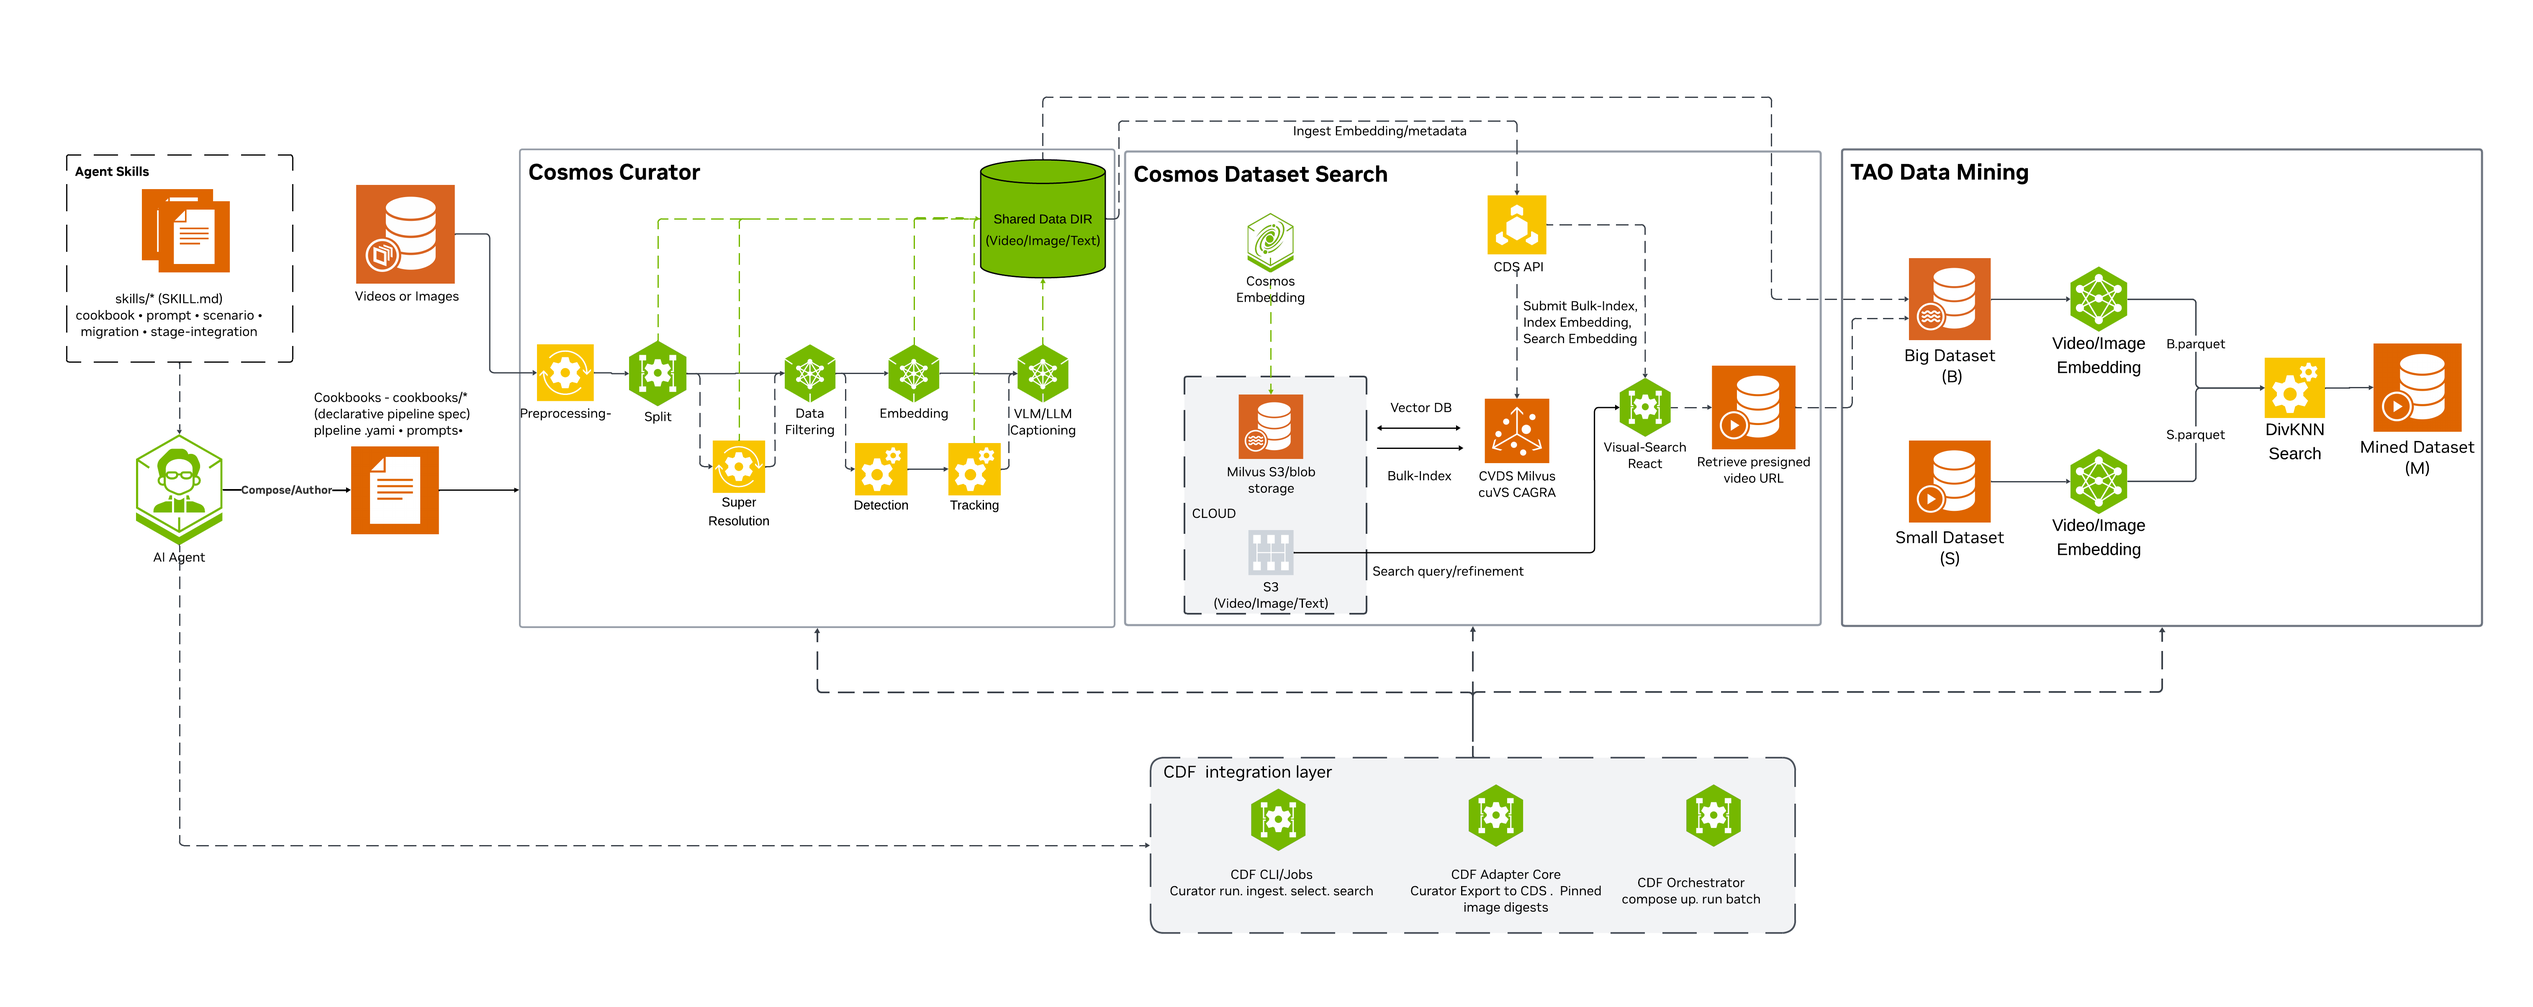
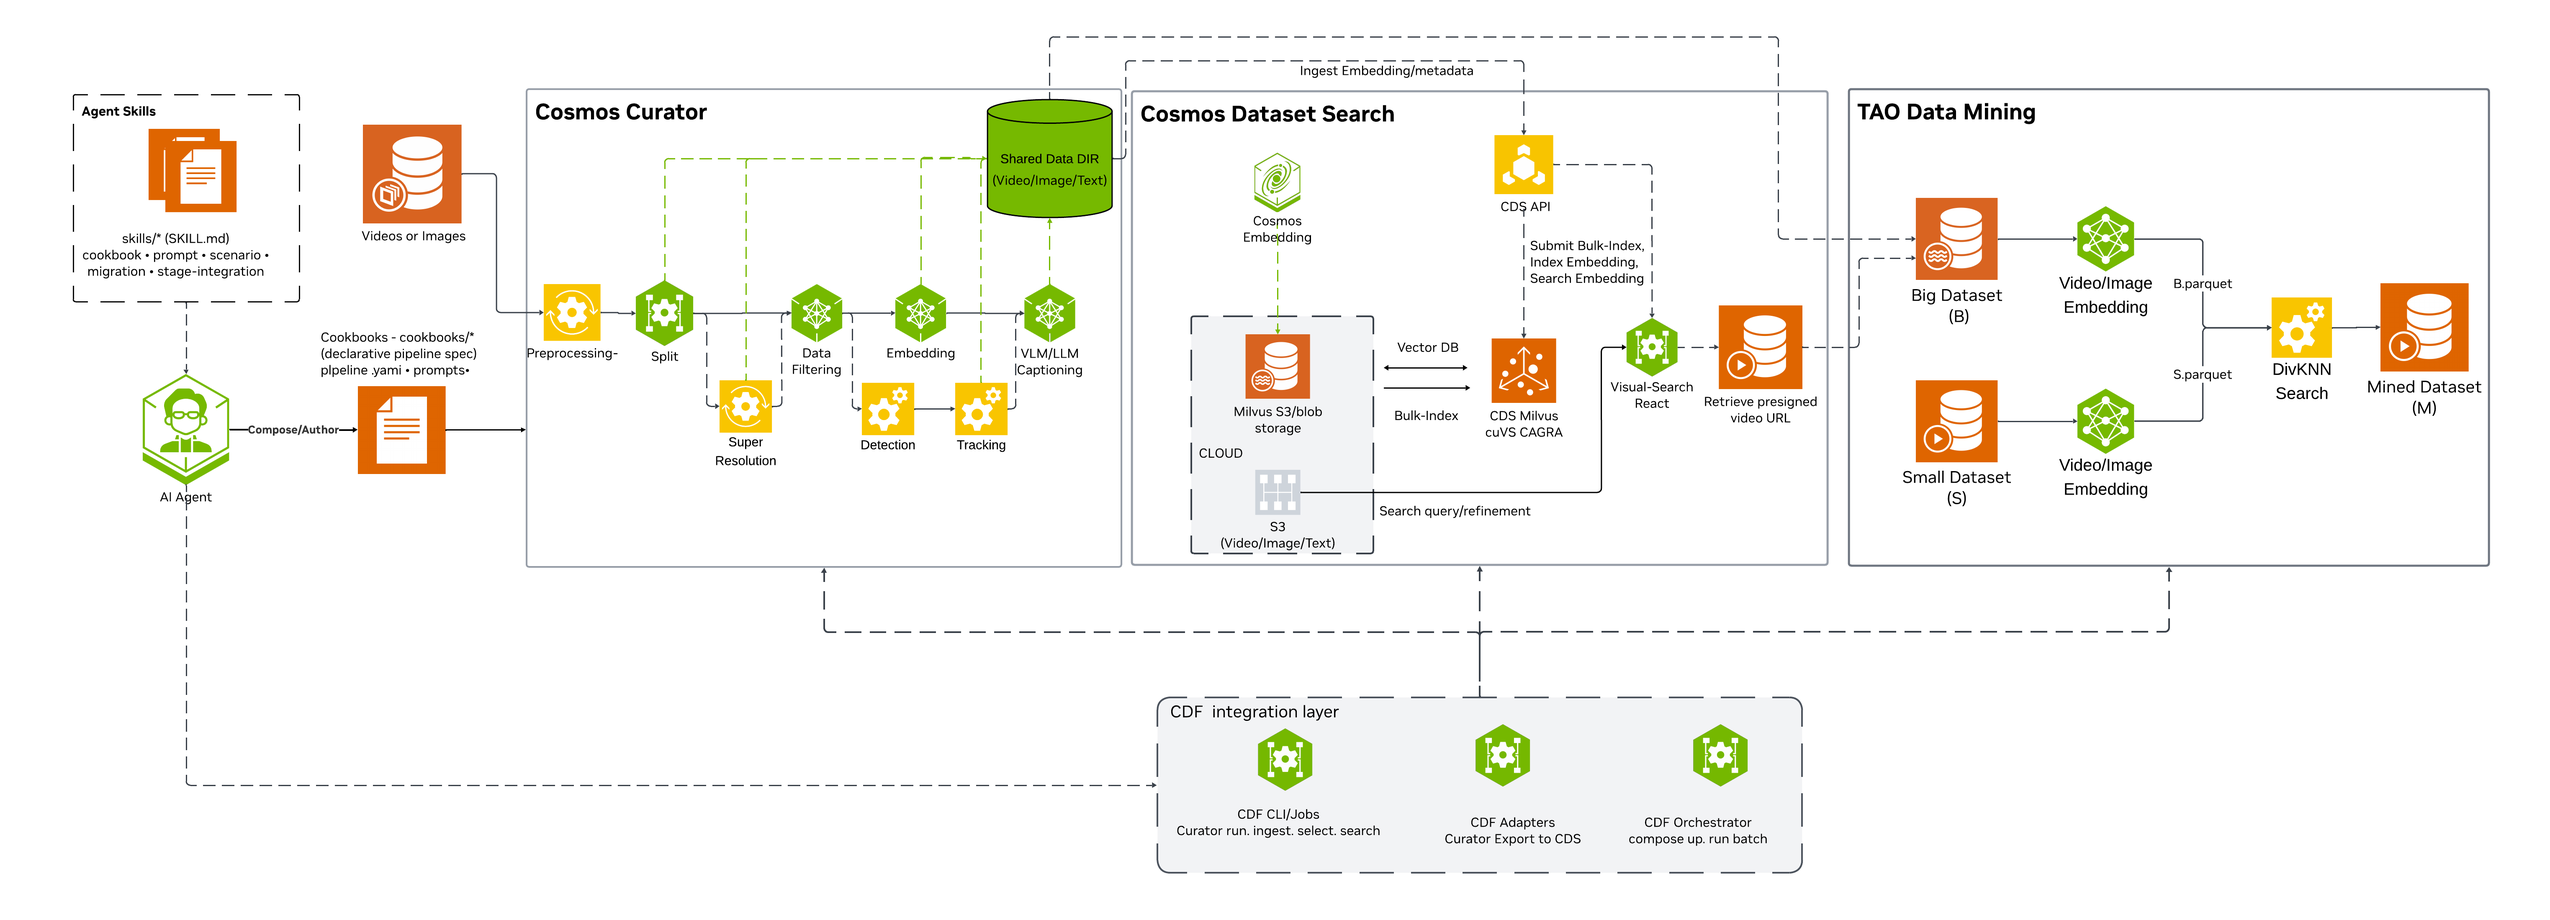
Clarify skill gates, deduplicate CDS ingest, and refresh the skill signature
State the config preflight as mandatory and the workplace legal-review gate as
explicit branches, keep one copy of the CDS bulk-ingest sequence, update the
architecture diagram labels, and refresh the skill benchmark, card, and
signature.

diff --git a/skills/cdf-curation-and-retrieval/BENCHMARK.md b/skills/cdf-curation-and-retrieval/BENCHMARK.md
@@ -13,7 +13,7 @@ Recommended for publication based on the completed evaluation evidence in this r
 - Evaluator version: `1.5.6`
 - Agents: Claude Code (`aws/anthropic/bedrock-claude-opus-4-8`), Codex (`openai/openai/gpt-5.5`)
 - Tasks: 13 evaluation tasks (13 positive)
-- Dataset digest: `sha256:7cb5ca235cc988433ce2a110f837664c9aaacd412e9b5fb8589ce89b4a6d7499` (skill-evaluator-dataset-snapshot/1)
+- Dataset digest: `sha256:68c9c65d696cee768d1ab51c11a9e58f26d2fa9369aed6853ef5a7d51c69abe8` (skill-evaluator-dataset-snapshot/1)
 - Attempts per task: 1
 - Environment: `k8s-sandbox`
 - Tier 2 evidence: required for publication
@@ -35,12 +35,12 @@ The three-tier evaluation checks whether the skill:
 
 | Measure | Claude Code (Baseline → Skill Uplift) | Codex (Baseline → Skill Uplift) |
 |---|---:|---:|
-| Overall | 93.1% — baseline ran, but no comparable score was available; uplift unavailable | 87.0% — baseline ran, but no comparable score was available; uplift unavailable |
-| Security | 92.3% → 100.0% (+7.7 points) | 100.0% → 100.0% (±0.0 points) |
-| Correctness | 43.1% → 100.0% (+56.9 points) | 49.2% → 90.8% (+41.6 points) |
-| Discoverability | 83.5% — baseline ran, but no comparable score was available; uplift unavailable | 70.8% — baseline ran, but no comparable score was available; uplift unavailable |
-| Effectiveness | 45.7% → 93.1% (+47.4 points) | 39.5% → 78.7% (+39.2 points) |
-| Efficiency | 88.9% — baseline ran, but no comparable score was available; uplift unavailable | 94.8% — baseline ran, but no comparable score was available; uplift unavailable |
+| Overall | 92.1% — baseline ran, but no comparable score was available; uplift unavailable | 85.4% — baseline ran, but no comparable score was available; uplift unavailable |
+| Security | 84.6% → 100.0% (+15.4 points) | 100.0% → 96.2% (-3.8 points) |
+| Correctness | 43.1% → 100.0% (+56.9 points) | 52.3% → 92.3% (+40.0 points) |
+| Discoverability | 86.2% — baseline ran, but no comparable score was available; uplift unavailable | 66.5% — baseline ran, but no comparable score was available; uplift unavailable |
+| Effectiveness | 45.1% → 89.0% (+43.9 points) | 41.2% → 75.5% (+34.3 points) |
+| Efficiency | 85.1% — baseline ran, but no comparable score was available; uplift unavailable | 96.3% — baseline ran, but no comparable score was available; uplift unavailable |
 
 **How to read this table:** baseline is the same task attempted without the target skill. Scores are rounded to one decimal; threshold-adjacent values use additional precision so their displayed band matches the verdict. Uplift is derived from those displayed scores and shown in percentage points.
 
@@ -54,35 +54,35 @@ Actual Tier 3 execution usage is reported for every observed agent/case pair and
 
 | Agent | Dataset case | With skill | Without skill | Delta | Change | Coverage |
 |---|---|---:|---:|---:|---:|---|
-| claude-code | All cases | 3,123,932 | 3,148,128 | -24,196 | -0.77% | skill 13/13; base 13/13 |
-| claude-code | 1 | 117,960 | 124,734 | -6,774 | -5.43% | skill 1/1; base 1/1 |
-| claude-code | 11 | 109,724 | 184,920 | -75,196 | -40.66% | skill 1/1; base 1/1 |
-| claude-code | 12 | 30,521 | 30,146 | +375 | +1.24% | skill 1/1; base 1/1 |
-| claude-code | 13 | 31,345 | 30,705 | +640 | +2.08% | skill 1/1; base 1/1 |
-| claude-code | 14 | 246,444 | 179,919 | +66,525 | +36.97% | skill 1/1; base 1/1 |
-| claude-code | 15 | 291,946 | 149,225 | +142,721 | +95.64% | skill 1/1; base 1/1 |
-| claude-code | 16 | 225,161 | 526,825 | -301,664 | -57.26% | skill 1/1; base 1/1 |
-| claude-code | 2 | 300,500 | 184,367 | +116,133 | +62.99% | skill 1/1; base 1/1 |
-| claude-code | 3 | 1,168,078 | 576,597 | +591,481 | +102.58% | skill 1/1; base 1/1 |
-| claude-code | 4 | 111,781 | 219,807 | -108,026 | -49.15% | skill 1/1; base 1/1 |
-| claude-code | 5 | 106,650 | 562,737 | -456,087 | -81.05% | skill 1/1; base 1/1 |
-| claude-code | 6 | 270,052 | 217,805 | +52,247 | +23.99% | skill 1/1; base 1/1 |
-| claude-code | 9 | 113,770 | 160,341 | -46,571 | -29.04% | skill 1/1; base 1/1 |
-| codex | All cases | 1,432,390 | 1,096,865 | +335,525 | +30.59% | skill 13/13; base 13/13 |
-| codex | 1 | 89,825 | 66,604 | +23,221 | +34.86% | skill 1/1; base 1/1 |
-| codex | 11 | 89,936 | 113,100 | -23,164 | -20.48% | skill 1/1; base 1/1 |
-| codex | 12 | 13,695 | 13,545 | +150 | +1.11% | skill 1/1; base 1/1 |
-| codex | 13 | 112,888 | 13,976 | +98,912 | +707.73% | skill 1/1; base 1/1 |
-| codex | 14 | 14,432 | 14,504 | -72 | -0.50% | skill 1/1; base 1/1 |
-| codex | 15 | 72,453 | 69,638 | +2,815 | +4.04% | skill 1/1; base 1/1 |
-| codex | 16 | 174,597 | 148,945 | +25,652 | +17.22% | skill 1/1; base 1/1 |
-| codex | 2 | 110,978 | 129,878 | -18,900 | -14.55% | skill 1/1; base 1/1 |
-| codex | 3 | 307,677 | 226,659 | +81,018 | +35.74% | skill 1/1; base 1/1 |
-| codex | 4 | 97,493 | 69,491 | +28,002 | +40.30% | skill 1/1; base 1/1 |
-| codex | 5 | 93,007 | 69,324 | +23,683 | +34.16% | skill 1/1; base 1/1 |
-| codex | 6 | 143,900 | 42,220 | +101,680 | +240.83% | skill 1/1; base 1/1 |
-| codex | 9 | 111,509 | 118,981 | -7,472 | -6.28% | skill 1/1; base 1/1 |
-| ALL AGENTS | Dataset aggregate | 4,556,322 | 4,244,993 | +311,329 | +7.33% | skill 26/26; base 26/26 |
+| claude-code | All cases | 2,845,953 | 2,903,814 | -57,861 | -1.99% | skill 13/13; base 13/13 |
+| claude-code | 1 | 117,484 | 281,990 | -164,506 | -58.34% | skill 1/1; base 1/1 |
+| claude-code | 11 | 109,584 | 122,056 | -12,472 | -10.22% | skill 1/1; base 1/1 |
+| claude-code | 12 | 30,544 | 30,280 | +264 | +0.87% | skill 1/1; base 1/1 |
+| claude-code | 13 | 61,860 | 30,689 | +31,171 | +101.57% | skill 1/1; base 1/1 |
+| claude-code | 14 | 246,336 | 150,240 | +96,096 | +63.96% | skill 1/1; base 1/1 |
+| claude-code | 15 | 291,458 | 211,382 | +80,076 | +37.88% | skill 1/1; base 1/1 |
+| claude-code | 16 | 160,435 | 122,511 | +37,924 | +30.96% | skill 1/1; base 1/1 |
+| claude-code | 2 | 250,343 | 180,841 | +69,502 | +38.43% | skill 1/1; base 1/1 |
+| claude-code | 3 | 960,007 | 632,407 | +327,600 | +51.80% | skill 1/1; base 1/1 |
+| claude-code | 4 | 116,918 | 313,950 | -197,032 | -62.76% | skill 1/1; base 1/1 |
+| claude-code | 5 | 189,807 | 547,212 | -357,405 | -65.31% | skill 1/1; base 1/1 |
+| claude-code | 6 | 197,169 | 123,313 | +73,856 | +59.89% | skill 1/1; base 1/1 |
+| claude-code | 9 | 114,008 | 156,943 | -42,935 | -27.36% | skill 1/1; base 1/1 |
+| codex | All cases | 1,527,696 | 1,377,724 | +149,972 | +10.89% | skill 13/13; base 13/13 |
+| codex | 1 | 92,466 | 38,997 | +53,469 | +137.11% | skill 1/1; base 1/1 |
+| codex | 11 | 193,496 | 99,109 | +94,387 | +95.24% | skill 1/1; base 1/1 |
+| codex | 12 | 13,711 | 13,626 | +85 | +0.62% | skill 1/1; base 1/1 |
+| codex | 13 | 14,355 | 118,752 | -104,397 | -87.91% | skill 1/1; base 1/1 |
+| codex | 14 | 14,488 | 23,993 | -9,505 | -39.62% | skill 1/1; base 1/1 |
+| codex | 15 | 88,433 | 84,294 | +4,139 | +4.91% | skill 1/1; base 1/1 |
+| codex | 16 | 223,428 | 116,397 | +107,031 | +91.95% | skill 1/1; base 1/1 |
+| codex | 2 | 90,154 | 100,075 | -9,921 | -9.91% | skill 1/1; base 1/1 |
+| codex | 3 | 440,834 | 285,710 | +155,124 | +54.29% | skill 1/1; base 1/1 |
+| codex | 4 | 72,470 | 69,683 | +2,787 | +4.00% | skill 1/1; base 1/1 |
+| codex | 5 | 119,008 | 254,483 | -135,475 | -53.24% | skill 1/1; base 1/1 |
+| codex | 6 | 91,202 | 70,588 | +20,614 | +29.20% | skill 1/1; base 1/1 |
+| codex | 9 | 73,651 | 102,017 | -28,366 | -27.81% | skill 1/1; base 1/1 |
+| ALL AGENTS | Dataset aggregate | 4,373,649 | 4,281,538 | +92,111 | +2.15% | skill 26/26; base 26/26 |
 
 Prompt tokens include cached reads, so total tokens are `prompt + completion` (cached is not added twice). The Efficiency score uses `(prompt - cached) + completion`. N/A means the relevant trajectory counters were not available; coverage is never estimated.
 
@@ -90,8 +90,8 @@ Prompt tokens include cached reads, so total tokens are `prompt + completion` (c
 
 | Tier | Purpose | Status | Evidence |
 |---|---|---|---|
-| Tier 1 | Static validation | **PASSED WITH OBSERVATIONS** | 11 validator(s); 10 finding(s) |
-| Tier 2 | Semantic deduplication | **PASSED WITH OBSERVATIONS** | 2 validator(s); 1 finding(s) |
+| Tier 1 | Static validation | **PASSED WITH OBSERVATIONS** | 11 validator(s); 8 finding(s) |
+| Tier 2 | Semantic deduplication | **PASSED** | 2 validator(s); 0 finding(s) |
 | Tier 3 | Live agent evaluation | **PASS** | 2 agent(s); 13 task(s) |
 
 ## Findings and Observations
@@ -99,14 +99,12 @@ Prompt tokens include cached reads, so total tokens are `prompt + completion` (c
 <details>
 <summary>Show detailed findings and successful checks</summary>
 
-- **HIGH** DUPLICATE/duplicate: Duplicate content found across references/cosmos-dataset-search.md and references/curation-retrieval-workflow.md:
-  "## Public GA bulk-ingest workflow" in references/cosmos-dataset-search.md (lines 98-131)
-  vs "### 2. Send CE1 to CDS" in references/curation-retrieval-workflow.md (lines 30-63) (`references/cosmos-dataset-search.md:98`)
 - **MEDIUM** QUALITY/quality_efficiency: Deeply nested references in calibration-config.md (`skills/cdf-curation-and-retrieval/SKILL.md`)
-- **MEDIUM** SECURITY/Skill Enumeration (AS3): Agent Snooping: skills/cdf-curation-and-retrieval/SKILL.md (`BENCHMARK.md:102`)
-- **MEDIUM** SECURITY/Skill Enumeration (AS3): Agent Snooping: skills/cdf-curation-and-retrieval/SKILL.md (`BENCHMARK.md:103`)
-- **MEDIUM** SECURITY/Skill Enumeration (AS3): Agent Snooping: skills/cdf-curation-and-retrieval/SKILL.md (`BENCHMARK.md:104`)
-- 6 additional finding(s) are available in the full evaluation artifacts.
+- **MEDIUM** SECURITY/Skill Enumeration (AS3): Agent Snooping: skills/cdf-curation-and-retrieval/SKILL.md (`BENCHMARK.md:105`)
+- **MEDIUM** SECURITY/Skill Enumeration (AS3): Agent Snooping: skills/cdf-curation-and-retrieval/SKILL.md (`BENCHMARK.md:106`)
+- **MEDIUM** SECURITY/Skill Enumeration (AS3): Agent Snooping: skills/cdf-curation-and-retrieval/SKILL.md (`BENCHMARK.md:107`)
+- **MEDIUM** SECURITY/Skill Enumeration (AS3): Agent Snooping: skills/cdf-curation-and-retrieval/SKILL.md (`BENCHMARK.md:108`)
+- 3 additional finding(s) are available in the full evaluation artifacts.
 
 </details>
 

diff --git a/skills/cdf-curation-and-retrieval/SKILL.md b/skills/cdf-curation-and-retrieval/SKILL.md
@@ -144,11 +144,17 @@ that one of the following is true:
 If none of these holds, or required paths, intent, or hardware constraints
 remain unresolved, stop and report the unresolved requirements as `blocked`.
 
-Workplace safety and employee conduct monitoring are privacy-sensitive. If the
-user names either domain, or a catalog match selects
-`employee_conduct_monitoring.yaml`, the user must confirm legal review, a
-lawful basis, and any required worker notice before the agent writes a config.
-Without that confirmation, return `blocked`.
+Workplace legal-review gate. Workplace safety and employee conduct monitoring
+are privacy-sensitive. The gate applies when the user names either domain or a
+catalog match selects `employee_conduct_monitoring.yaml`:
+
+- If the gate does not apply → continue with the route below.
+- If it applies and the user confirms legal review, a lawful basis, and any
+  required worker notice → emit the reviewed configuration and its
+  calibration disclosure.
+- If it applies and any of those confirmations is absent → do not write a
+  config; return `blocked` with the evidence and the next safe step (obtain
+  the missing confirmation).
 
 If the user requests a config with only a one-line description
 ("configure cosmos-curator for my videos"), assume the calibration
@@ -178,10 +184,8 @@ validation evidence, and the next safe step.
      and disclosure only after answers. Catalog matching follows
      [context-understanding.md](references/context-understanding.md).
    - Catalog match is `employee_conduct_monitoring.yaml`, on any of the paths
-     above → before using the catalog, require explicit user confirmation
-     that legal review, a lawful basis, and any required worker notice are
-     complete. Without that confirmation, do not select the catalog; return
-     `blocked`.
+     above → apply the workplace legal-review gate. Without the confirmation,
+     do not select the catalog; return `blocked`.
    Stop if required paths, intent, or hardware constraints remain unresolved,
    or if the workplace legal-review gate above is not confirmed.
 3. **Explicit run request**, including discovery and calibration runs, in
@@ -220,17 +224,18 @@ processes still images (image annotate flag-reference YAML; no image cookbook).
 
 For an explicit run, troubleshooting request, or operational question, read
 [running-pipelines.md](references/running-pipelines.md). The local run
-commands are below; invoke them only after the config preflight passes:
+commands are below.
+
+MANDATORY: run the config preflight before every `make run-pipeline` or
+`make run_image_pipeline` invocation. It is not optional, because it is the
+only guard against silently skipping SAM3 on the Make path.
 
 ```bash
 make run-pipeline CONFIG_FILE=<split-config>
 make run_image_pipeline IMAGE_CONFIG_FILE=<image-config>
 ```
 
-Config validation is MANDATORY before execution. The agent MUST run the
-config preflight before every `make run-pipeline` or `make run_image_pipeline`
-invocation; it is not optional, because it is the only guard against silently
-skipping SAM3 on the Make path. Reject deprecated `enable_sam3` and
+In the config preflight, reject deprecated `enable_sam3` and
 `enable_event_captioning` and return `blocked`; use canonical `sam3` and
 `event_captioning`. `make run-pipeline` passes the config straight to upstream
 Curator, which silently ignores those keys: SAM3 never runs and the run still
@@ -316,6 +321,11 @@ validation in Execution & Troubleshooting:
 make check-setup               # docker, nvidia, FFmpeg sidecar
 make check-image               # pinned cosmos-curator tag is local
 ```
+
+The agent MUST run the config preflight in
+[Execution & Troubleshooting](#execution--troubleshooting) before every
+`make run-pipeline` or `make run_image_pipeline` invocation. This is
+mandatory, not optional.
 
 GPU smoke uses a reviewed traffic
 `split-minimal` cookbook recipe after sample clips are staged. There is no

diff --git a/skills/cdf-curation-and-retrieval/skill-card.md b/skills/cdf-curation-and-retrieval/skill-card.md
@@ -83,12 +83,12 @@ Underlying evaluation signals used in this run: <br>
 ## Evaluation Results: <br>
 | Measure | Claude Code (Baseline → Skill Uplift) | Codex (Baseline → Skill Uplift) |
 |---|---:|---:|
-| Overall | 93.1% — baseline ran, but no comparable score was available; uplift unavailable | 87.0% — baseline ran, but no comparable score was available; uplift unavailable |
-| Security | 92.3% → 100.0% (+7.7 points) | 100.0% → 100.0% (±0.0 points) |
-| Correctness | 43.1% → 100.0% (+56.9 points) | 49.2% → 90.8% (+41.6 points) |
-| Discoverability | 83.5% — baseline ran, but no comparable score was available; uplift unavailable | 70.8% — baseline ran, but no comparable score was available; uplift unavailable |
-| Effectiveness | 45.7% → 93.1% (+47.4 points) | 39.5% → 78.7% (+39.2 points) |
-| Efficiency | 88.9% — baseline ran, but no comparable score was available; uplift unavailable | 94.8% — baseline ran, but no comparable score was available; uplift unavailable |
+| Overall | 92.1% — baseline ran, but no comparable score was available; uplift unavailable | 85.4% — baseline ran, but no comparable score was available; uplift unavailable |
+| Security | 84.6% → 100.0% (+15.4 points) | 100.0% → 96.2% (-3.8 points) |
+| Correctness | 43.1% → 100.0% (+56.9 points) | 52.3% → 92.3% (+40.0 points) |
+| Discoverability | 86.2% — baseline ran, but no comparable score was available; uplift unavailable | 66.5% — baseline ran, but no comparable score was available; uplift unavailable |
+| Effectiveness | 45.1% → 89.0% (+43.9 points) | 41.2% → 75.5% (+34.3 points) |
+| Efficiency | 85.1% — baseline ran, but no comparable score was available; uplift unavailable | 96.3% — baseline ran, but no comparable score was available; uplift unavailable |
 
 ## Skill Version(s): <br>
 1.2.0 (source: frontmatter, pyproject.toml) <br>

diff --git a/skills/cdf-curation-and-retrieval/references/curation-retrieval-workflow.md b/skills/cdf-curation-and-retrieval/references/curation-retrieval-workflow.md
@@ -32,30 +32,10 @@ Curator IV2 and CE1 can feed TMM.
 Operator Path D on local compose (wait for health, collection **id**, lab
 document ingest): `docs/user-guide/operations-cds.md`.
 
-For GA bulk ingest, validate, stage to `s3://`, insert, wait, then search.
-Use pipeline `cosmos_video_search_milvus` on public 1.2.0. `COLLECTION`
-must be the create-collection **id**.
-
-```bash
-make ds-health
-make ingest-curator \
-  CURATOR_DIR=/path/to/curator/output-root \
-  OUT=$PWD/data/cds-ce1.parquet \
-  EMBEDDING_BACKEND=ce1
-make stage-cds-artifact \
-  STAGE_SOURCE=$PWD/data/cds-ce1.parquet \
-  STAGE_DESTINATION=s3://bucket/cds-ce1.parquet \
-  OBJECT_STORE_ENDPOINT=https://objects.example
-make ds-create-collection \
-  NAME=traffic \
-  PIPELINE=cosmos_video_search_milvus
-make ds-bulk-insert \
-  COLLECTION=<id-from-create> \
-  PARQUET_URI=s3://bucket/cds-ce1.parquet \
-  CDS_EMBEDDING_FAMILY=ce1
-make ds-job-status JOB_ID=<job-id> WAIT=1
-make search COLLECTION=<id-from-create> QUERY='pedestrian crossing the road'
-```
+For GA bulk ingest (validate, stage to `s3://`, create the collection, insert,
+wait, then search), run the command sequence in
+[Public GA bulk-ingest workflow](cosmos-dataset-search.md#public-ga-bulk-ingest-workflow).
+`COLLECTION` must be the create-collection **id**.
 
 `POST /insert-data` 404 on a local file is expected on compose. Follow
 operations-cds.md lab ingest. Do not treat `documents:N` as GA bulk-ingest

diff --git a/skills/cdf-curation-and-retrieval/references/cosmos-dataset-search.md b/skills/cdf-curation-and-retrieval/references/cosmos-dataset-search.md
@@ -99,13 +99,19 @@ CDS-bound Curator ingest accepts CE1 only:
 
 Follow this order:
 
-1. Convert and validate a Curator CE1 export.
-2. Stage the validated parquet in CDS-readable object storage.
-3. Submit one non-retried `/insert-data` request.
-4. Poll the returned job to a successful terminal state.
-5. Search only after successful completion.
+1. Confirm CDS is healthy.
+2. Convert and validate a Curator CE1 export.
+3. Stage the validated parquet in CDS-readable object storage.
+4. Create the collection and keep the returned **id**.
+5. Submit one non-retried `/insert-data` request.
+6. Poll the returned job to a successful terminal state.
+7. Search only after successful completion.
+
+Use pipeline `cosmos_video_search_milvus` on public 1.2.0.
 
 ```bash
+make ds-health
+
 make ingest-curator \
   CURATOR_DIR=/path/to/curator/ce1-output \
   OUT=$PWD/data/cds-ce1.parquet \
@@ -115,6 +121,10 @@ make stage-cds-artifact \
   STAGE_SOURCE=$PWD/data/cds-ce1.parquet \
   STAGE_DESTINATION=s3://bucket/cds-ce1.parquet \
   OBJECT_STORE_ENDPOINT=https://objects.example
+
+make ds-create-collection \
+  NAME=traffic \
+  PIPELINE=cosmos_video_search_milvus
 
 make ds-bulk-insert \
   COLLECTION=<id-from-create> \
